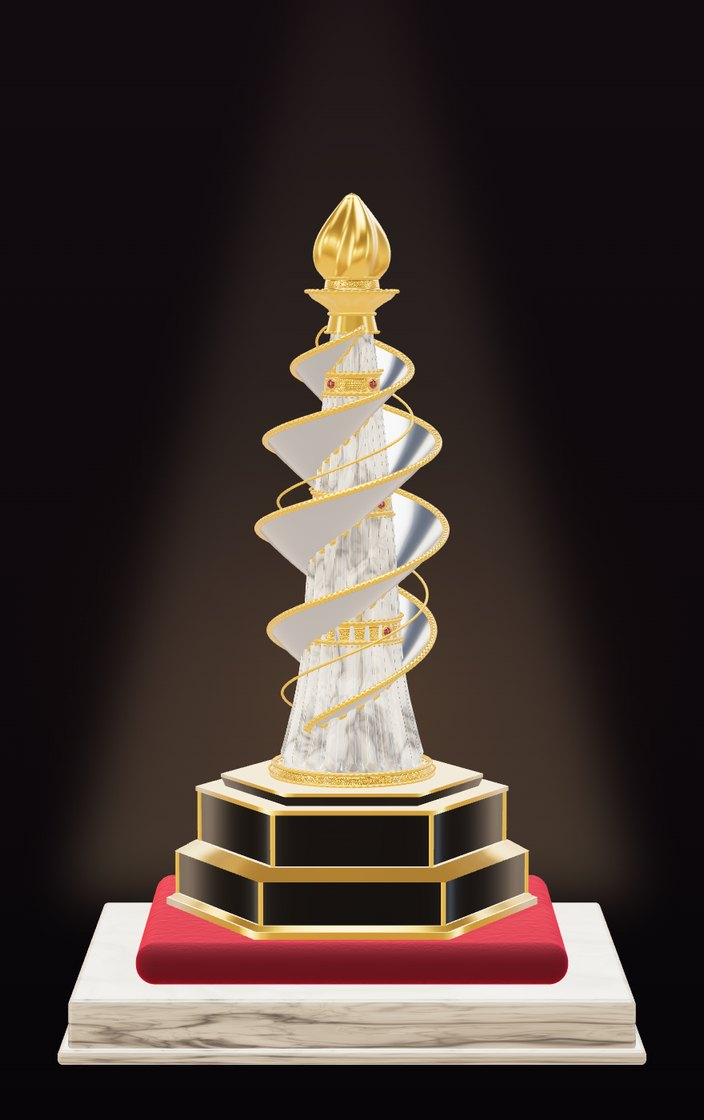
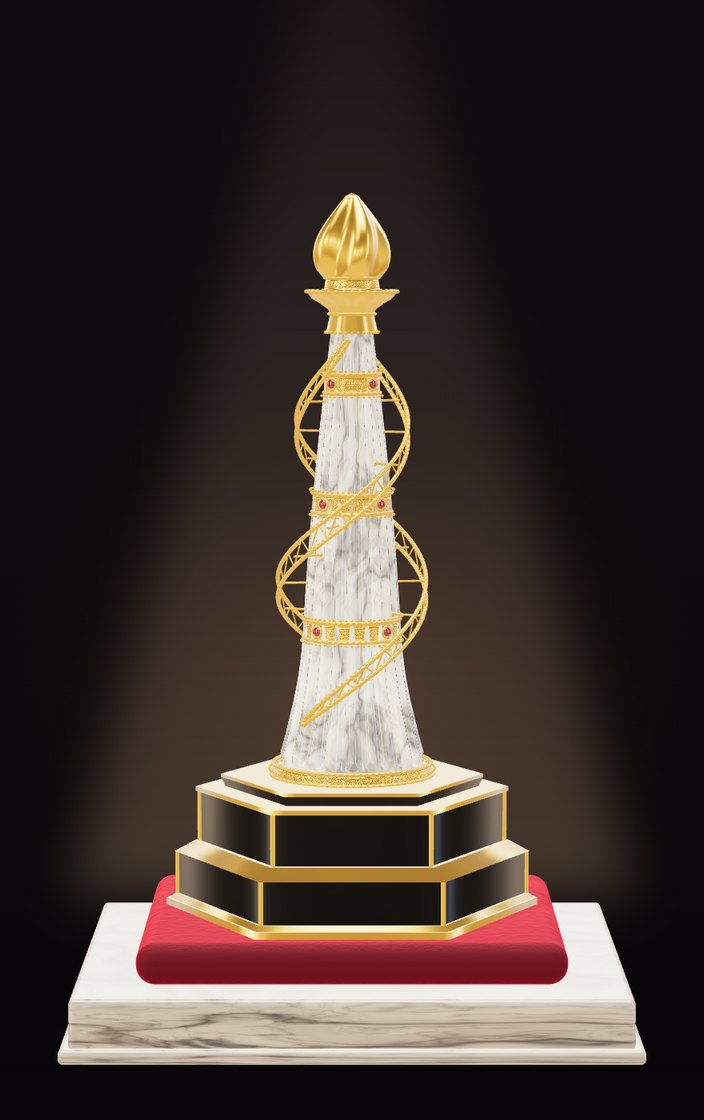
Trophy room: live plaques on the trophies, a metal-helix Pick'em trophy, truer marble

Changed region(s): [[0.3438, 0.2812, 0.6562, 0.6562]]

diff --git a/src/components/trophy-display.tsx b/src/components/trophy-display.tsx
@@ -1,0 +1,107 @@
+"use client";
+
+import Image from "next/image";
+import { useEffect, useId, useState } from "react";
+import { championRoll } from "@/lib/trophy-roll.js";
+
+/**
+ * The three trophies, each a picture with no plaques on it, with a real brass plaque laid over the picture for every champion on
+ * record (newest in the first slot, then the next, and so on). Plaques are made of live data: a new champion appears here the day
+ * they are crowned, with no new picture. Where a trophy has no more room in view, the older champions are listed under the
+ * picture. Tapping a plaque shows it large.
+ */
+type Champion = { name: string };
+type Season = { seasonYear: number; pickem: Champion[] | null; survivor: Champion[] | null; bowl: Champion[] | null };
+type Slot = { cx: number; cy: number; w: number; h: number };
+type Pool = "pickem" | "survivor" | "bowl";
+
+// Slot positions are where the plaque places sit in each picture, as fractions of it (measured from the render itself).
+const TROPHIES: Array<{ pool: Pool; label: string; src: string; note: string; slots: Slot[] }> = [
+  { pool: "pickem", label: "Pick’em", src: "/trophies/pickem.jpg", note: "The marble pillar and its twin metal helix.", slots: [
+    { cx: 0.5, cy: 0.7505, w: 0.1542, h: 0.0431 }, { cx: 0.5, cy: 0.8067, w: 0.1638, h: 0.036 },
+  ] },
+  { pool: "bowl", label: "Bowl Pool", src: "/trophies/bowl.jpg", note: "The pennant cup.", slots: [
+    { cx: 0.5, cy: 0.7874, w: 0.1412, h: 0.0385 },
+  ] },
+  { pool: "survivor", label: "Survivor", src: "/trophies/survivor.jpg", note: "The crystal spade and its chip.", slots: [
+    { cx: 0.3251, cy: 0.752, w: 0.1551, h: 0.0407 }, { cx: 0.5, cy: 0.752, w: 0.1548, h: 0.0407 }, { cx: 0.6749, cy: 0.752, w: 0.1545, h: 0.0407 },
+    { cx: 0.3973, cy: 0.6957, w: 0.1371, h: 0.0406 }, { cx: 0.6027, cy: 0.6957, w: 0.1367, h: 0.0406 },
+  ] },
+];
+const IMAGE = { width: 704, height: 1120 };
+
+export type RollEntry = { year: number; names: string };
+
+/** A brass cartouche: notched corners, a rounded boss at each end, rivets, a double keyline, and the year and name engraved in dark brass. */
+function PlaqueFace({ entry, ratio, bosses = true }: { entry: RollEntry; ratio: number; bosses?: boolean }) {
+  const id = useId().replace(/:/g, "");
+  const W = 200, H = W / ratio, c = Math.min(H * 0.26, W * 0.1), b = H * 0.2, mid = H / 2;
+  const outline = `M ${c} 0 L ${W - c} 0 A ${c} ${c} 0 0 0 ${W} ${c} L ${W} ${mid - b} A ${b} ${b} 0 0 1 ${W} ${mid + b} L ${W} ${H - c} A ${c} ${c} 0 0 0 ${W - c} ${H} L ${c} ${H} A ${c} ${c} 0 0 0 0 ${H - c} L 0 ${mid + b} A ${b} ${b} 0 0 1 0 ${mid - b} L 0 ${c} A ${c} ${c} 0 0 0 ${c} 0 Z`;
+  const name = entry.names.toUpperCase();
+  const nameSize = Math.min(H * 0.3, (W * 0.74) / Math.max(5, name.length * 0.74));
+  const inset = H * 0.15;
+  return (
+    <svg aria-hidden="true" preserveAspectRatio="xMidYMid meet" viewBox={`${-b} -2 ${W + 2 * b} ${H + 4}`}>
+      <defs>
+        <linearGradient id={`brass-${id}`} x1="0" x2="1" y1="0" y2="1">
+          <stop offset="0" stopColor="#f3dc93" /><stop offset="0.45" stopColor="#d4a43b" /><stop offset="1" stopColor="#8d6a22" />
+        </linearGradient>
+      </defs>
+      <path d={outline} fill={`url(#brass-${id})`} stroke="#6b4e17" strokeWidth={H * 0.025} />
+      <rect fill="none" height={H - 2 * inset} rx={H * 0.08} stroke="#3a2a0e" strokeWidth={H * 0.03} width={W - 2 * inset} x={inset} y={inset} />
+      <rect fill="none" height={H - 2 * inset - H * 0.1} rx={H * 0.05} stroke="#3a2a0e" strokeWidth={H * 0.012} width={W - 2 * inset - H * 0.1} x={inset + H * 0.05} y={inset + H * 0.05} />
+      {bosses ? [0, W].map((x) => <circle cx={x} cy={mid} fill="#e6c365" key={x} r={b * 0.5} stroke="#6b4e17" strokeWidth={H * 0.012} />) : null}
+      {[[c * 0.35, c * 0.35], [W - c * 0.35, c * 0.35], [c * 0.35, H - c * 0.35], [W - c * 0.35, H - c * 0.35]].map(([x, y]) => <circle cx={x} cy={y} fill="#e6c365" key={`${x}-${y}`} r={H * 0.035} stroke="#6b4e17" strokeWidth={H * 0.01} />)}
+      <g fill="#2a1b08" fontFamily="var(--font-cormorant), Georgia, serif" fontWeight={700} textAnchor="middle">
+        <text fontSize={H * 0.2} letterSpacing={H * 0.05} x={W / 2} y={H * 0.38}>{entry.year}</text>
+        <text fontSize={nameSize} letterSpacing={nameSize * 0.06} x={W / 2} y={H * 0.72}>{name}</text>
+      </g>
+    </svg>
+  );
+}
+
+export default function TrophyDisplay({ seasons }: { seasons: Season[] }) {
+  const [zoomed, setZoomed] = useState<{ entry: RollEntry; ratio: number } | null>(null);
+  useEffect(() => {
+    if (!zoomed) return;
+    const onKey = (event: KeyboardEvent) => { if (event.key === "Escape") setZoomed(null); };
+    document.addEventListener("keydown", onKey);
+    return () => document.removeEventListener("keydown", onKey);
+  }, [zoomed]);
+  return (
+    <>
+      <div className="trophy-case mt-4">
+        {TROPHIES.map((trophy) => {
+          const roll = championRoll(seasons, trophy.pool);
+          const shown = roll.slice(0, trophy.slots.length);
+          return (
+            <figure key={trophy.pool}>
+              <div className="trophy-picture" style={{ aspectRatio: `${IMAGE.width} / ${IMAGE.height}` }}>
+                <Image alt={`${trophy.label} trophy on its mantle`} height={IMAGE.height} priority src={trophy.src} width={IMAGE.width} />
+                {shown.map((entry, index) => {
+                  const slot = trophy.slots[index];
+                  const ratio = (slot.w * IMAGE.width) / (slot.h * IMAGE.height);
+                  return (
+                    <button aria-label={`${trophy.label} champion ${entry.year}: ${entry.names}`} className="trophy-plaque" key={entry.year} onClick={() => setZoomed({ entry, ratio })} style={{ height: `${slot.h * 100 * 1.12}%`, left: `${slot.cx * 100}%`, top: `${slot.cy * 100}%`, width: `${slot.w * 100 * 1.1}%` }} type="button">
+                      <PlaqueFace entry={entry} ratio={ratio} />
+                    </button>
+                  );
+                })}
+              </div>
+              <figcaption>
+                <b>{trophy.label}</b>
+                <span>{trophy.note}</span>
+                {roll.length ? <ul className="trophy-roll">{roll.map((entry) => <li key={entry.year}><span>{entry.year}</span> {entry.names}</li>)}</ul> : <span>No champion yet.</span>}
+              </figcaption>
+            </figure>
+          );
+        })}
+      </div>
+      {zoomed ? (
+        <div aria-label="Plaque" aria-modal="true" className="trophy-zoom" onClick={() => setZoomed(null)} role="dialog">
+          <div style={{ aspectRatio: `${zoomed.ratio}` }}><PlaqueFace entry={zoomed.entry} ratio={zoomed.ratio} /></div>
+        </div>
+      ) : null}
+    </>
+  );
+}

diff --git a/src/lib/trophy-roll.js b/src/lib/trophy-roll.js
@@ -1,0 +1,10 @@
+/**
+ * The champions of one pool, newest first, one entry per season that has any, with co-champions joined into one line
+ * ("Gary & Rick"). Seasons: { seasonYear, pickem, survivor, bowl } where each pool is null or [{ name }].
+ */
+export function championRoll(seasons, pool) {
+  return [...seasons]
+    .sort((a, b) => b.seasonYear - a.seasonYear)
+    .filter((season) => season[pool]?.length)
+    .map((season) => ({ year: season.seasonYear, names: season[pool].map((champion) => champion.name).join(" & ") }));
+}

diff --git a/docs/DECISION_LOG.md b/docs/DECISION_LOG.md
@@ -1753,6 +1753,8 @@ The Bowl Card (standings table) and the Bowl picks schedule used selectors like 
 
 Last year's Bowl Pool winner (Al, 2025) was already recorded in the shared championship ledger (`pool_championships`, pool `bowl`, by an earlier migration) but not in the Bowl Pool's own tables, because that pool only started in 2026. The Trophy Room read only the Bowl Pool's own table, so it showed "Not recorded" for 2025. It now takes Bowl champions from both places and lists a player once per year however many places record them. No migration was needed; nothing in the database changed.
 
-## The trophies carry small brass plaques for their champions, and the Survivor chip is easier to read
+## The trophy plaques are live, the Pick'em trophy has a metal helix, and the Survivor chip is easier to read
 
-Each trophy picture shows a small, ornate brass plaque (a cartouche with a rope edge, rivets and a keyline, the year and name engraved in dark brass) for every champion so far: Steve (Pick'em), Al (Bowl Pool) and John (Survivor), all 2025. There are no empty plaques: a plaque is added only when a champion is crowned, beside the last. The Survivor chip was redrawn for legibility (a large, plain navy-on-ivory face with the four suits spade, heart, club, diamond across the top, SURVIVOR, then LAST MAN STANDING), and the gold beads that floated loose around it now sit on its own bezel. The names in the pictures are artwork, not read from the database, so a new season needs the pictures re-rendered or the plaques overlaid on the page.
+The three trophy pictures have no plaques painted on them. The page lays a real brass plaque (a cartouche with notched corners, end bosses, rivets and a double keyline, the year and name engraved in dark brass) over the picture for each champion on record, newest first: Pick'em has two places in view, Bowl Pool one, Survivor five (bottom row left to right, then the top row). So a new champion's plaque appears the day they are crowned, with no new picture; older champions beyond the places in view are listed in plain text under the picture, which also keeps every name readable on a phone, and tapping a plaque shows it large. Where each place sits was measured from the rendered picture itself. Al's 2025 Bowl win comes from the shared ledger (see the previous entry).
+
+The Pick'em trophy was redesigned: a white marble pillar with a graceful flare at its foot and deeper scalloped flutes, wound by a gentle metal helix (two gold lattice strands, the same rope-twisted rails and zig-zag web as the earlier exoskeleton, a little over one turn, bowing out in the middle and tied back to the pillar by small struts), topped by the sculpted gold flame. Collars on the pillar carry four rubies each, 90 degrees apart. The marble texture was rebuilt (veins that branch and fade, hairline cracks, a soft grain; it tiles with no seam). The Survivor chip was redrawn for legibility (a large, plain navy-on-ivory face with the four suits spade, heart, club, diamond across the top, SURVIVOR, then LAST MAN STANDING), and the gold beads that floated loose around it now sit on its own bezel.

diff --git a/docs/VIEW_STATES.md b/docs/VIEW_STATES.md
@@ -76,7 +76,7 @@ Night mode: `regular-in`, `playoff-wildcard`, `commissioner`, `bowl-results`, `b
 | Workshop pieces respond to hands: football pause, scrub and step; reset to live; copy settings; typed words; all 32 chip teams (behavior test) | `healthy` |
 | Players | one roster: commissioner, active, inactive, never signed in |
 | Reminders | scheduled, sent, cancelled-with-reason |
-| Trophy room (the three trophy pictures; past champions by season; all-time record with Wins and Hit rate, an under-50-picks group, and a champion with no pick history) | `healthy`, phone, tablet and desktop, day and night |
+| Trophy room (the three trophies with live plaques for the champions on record; past champions by season; all-time record with Wins and Hit rate, an under-50-picks group, and a champion with no pick history) | `healthy`, phone, tablet and desktop, day and night |
 | Trophy room sorting: Wins and Hit rate sort independently, and a second tap reverses (behavior test) | `healthy` |
 
 ## Account pages — `account.visual.spec.ts`
